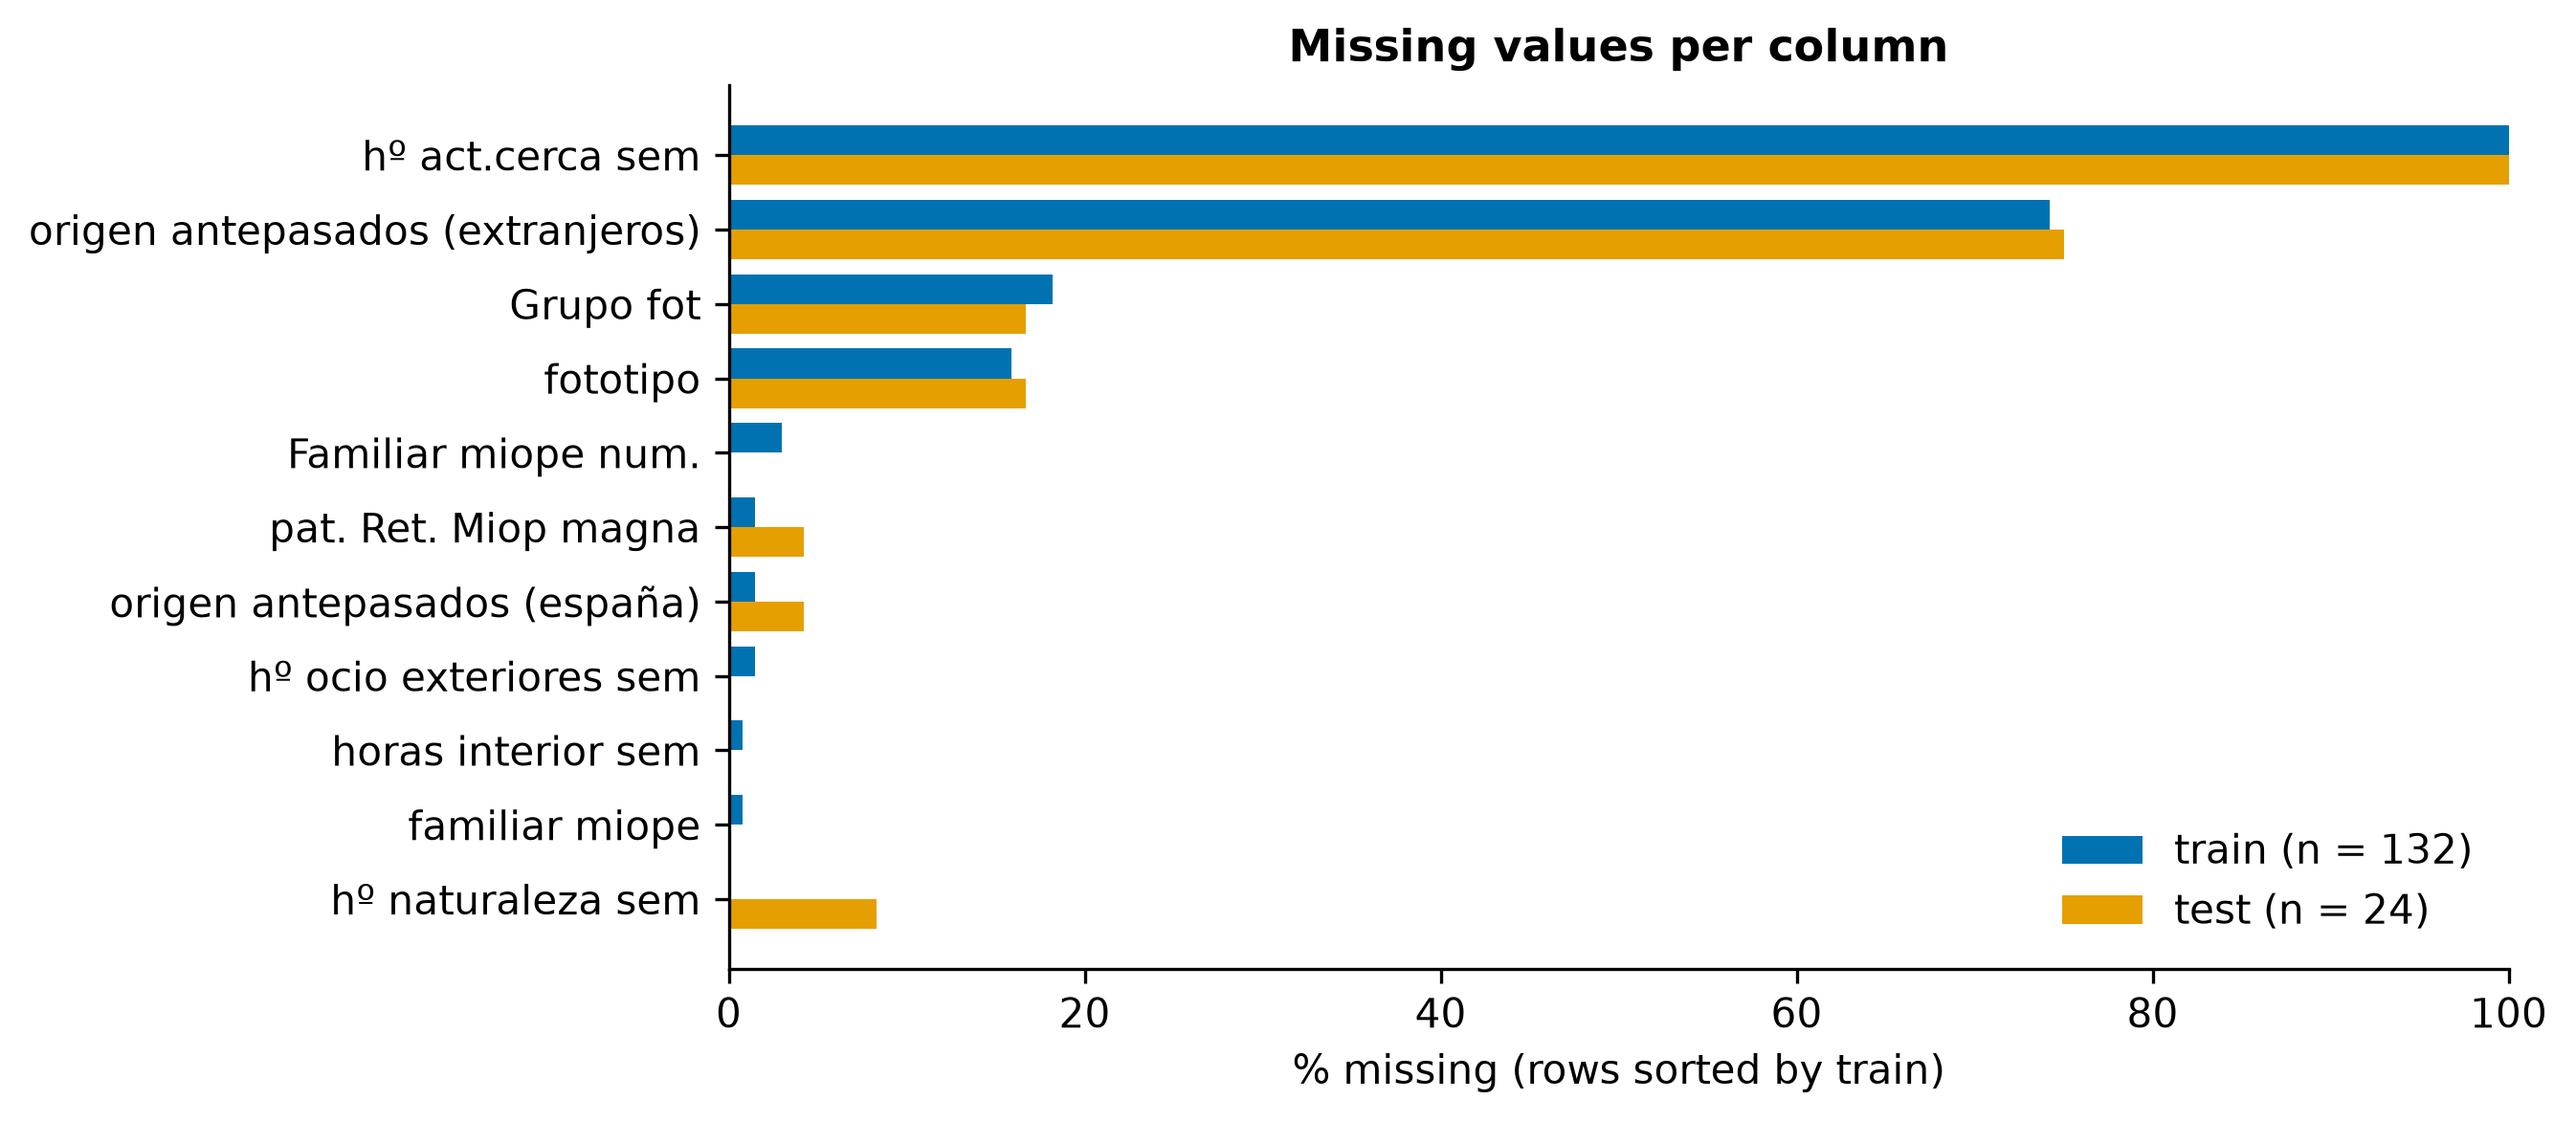
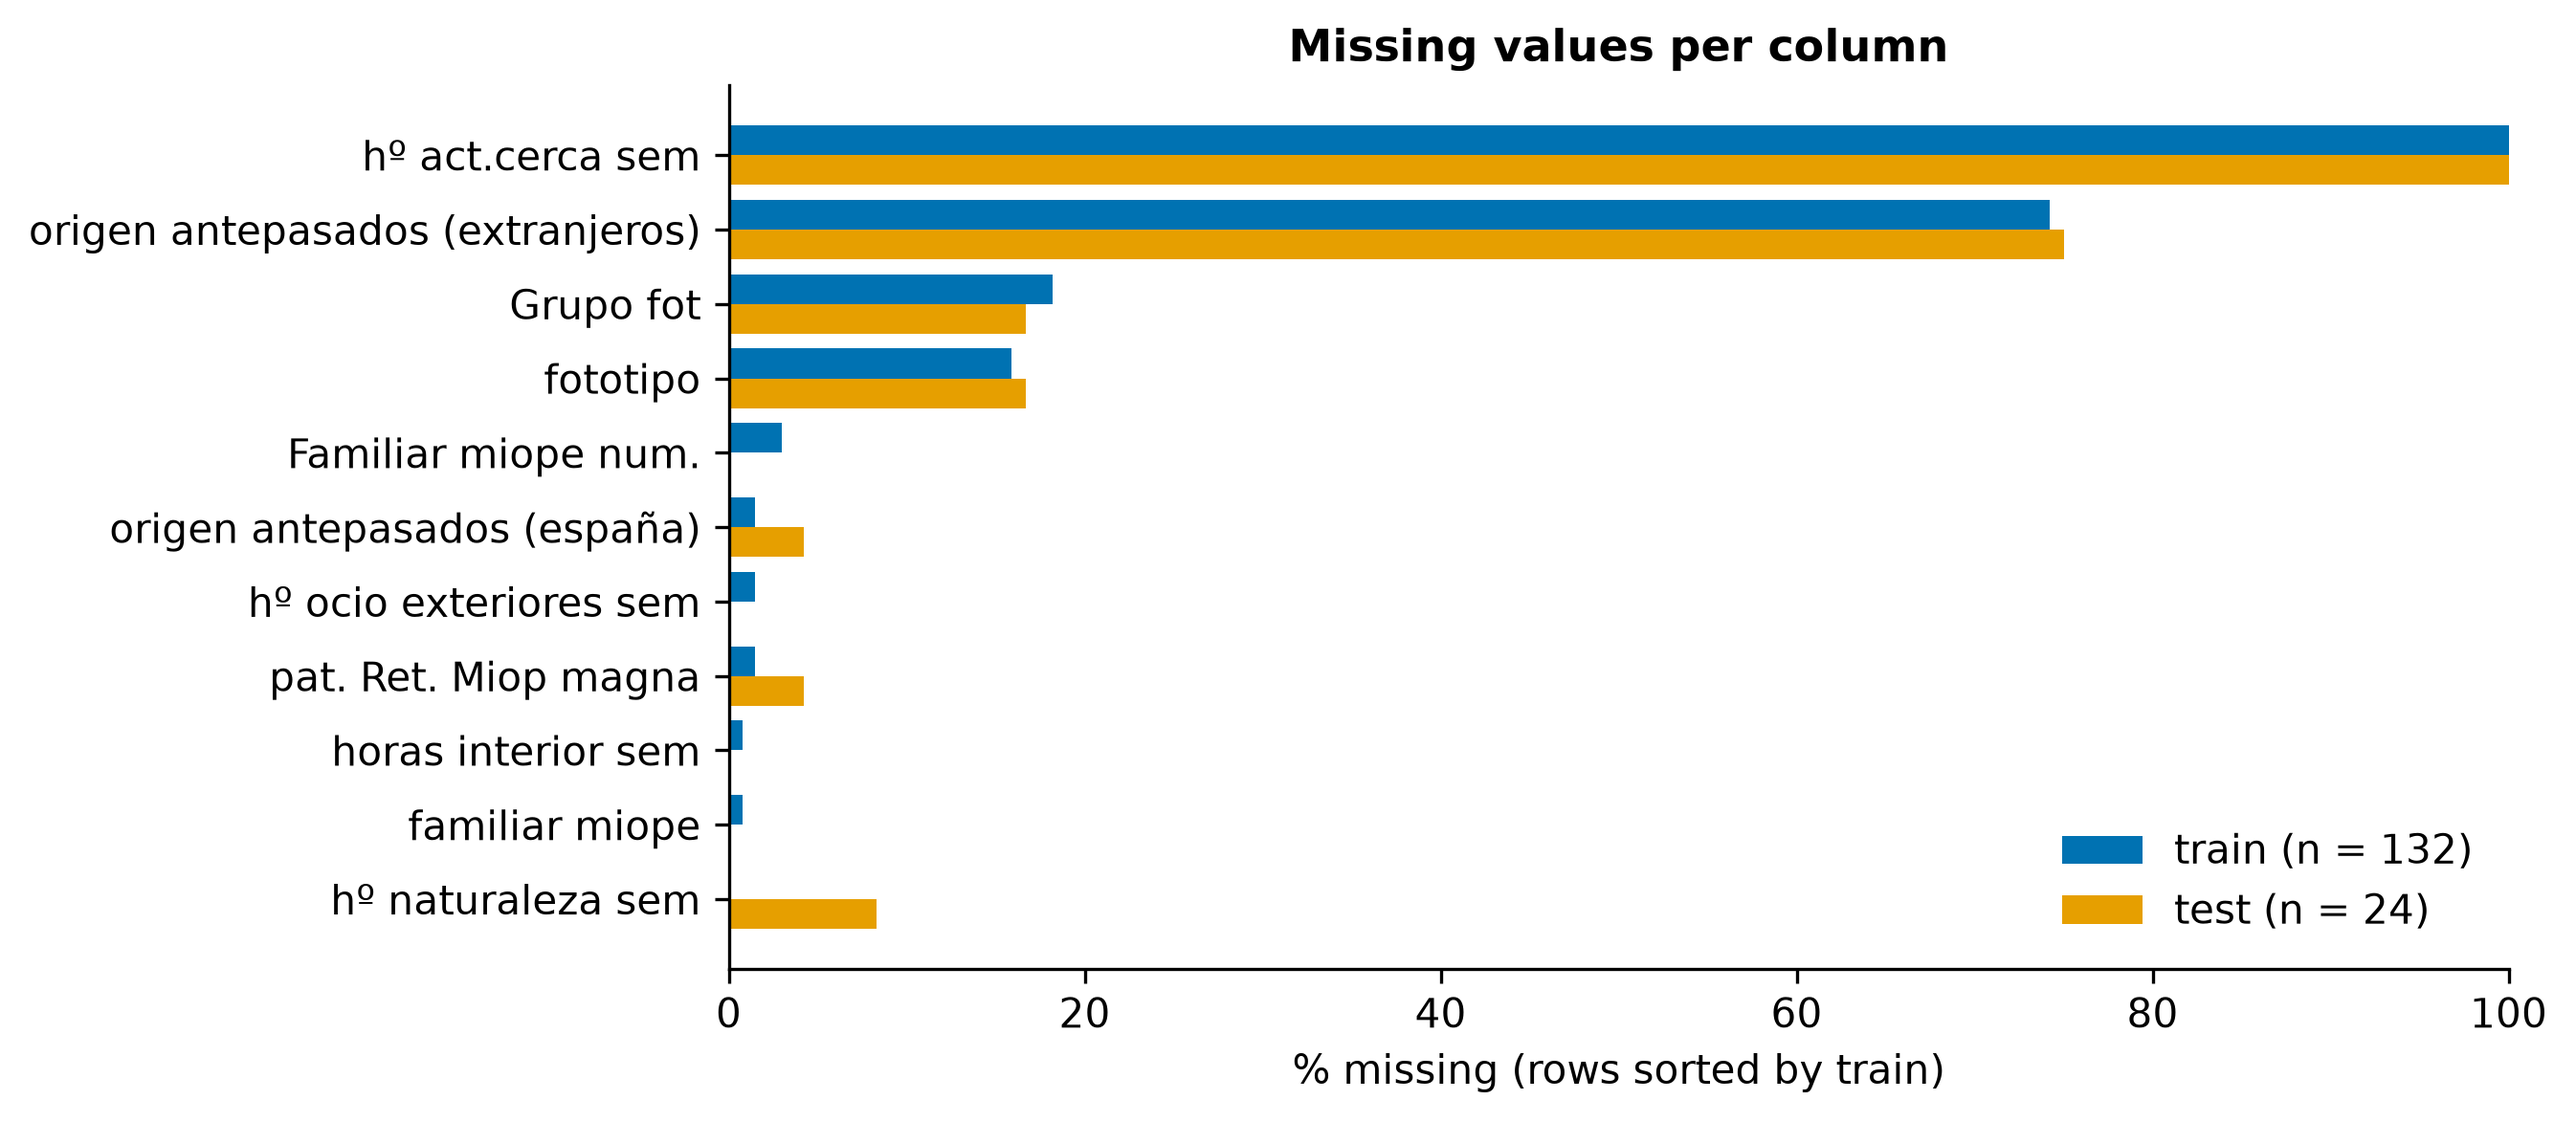
Record B12 and B13, remove AI log placeholder, sync notebook 01 figures
Confirm the comparison rules for notebook 04 (B12) and what decides when
balanced accuracy and macro-F1 disagree (B13), and state them in notebook 03.
Remove the placeholder from the AI usage log and its skill. Commit the notebook
01 figures that match the outputs saved in that notebook.

Changed region(s): [[0.0312, 0.5217, 0.312, 0.6445], [0.0312, 0.4604, 0.2808, 0.491]]

diff --git a/docs/assumptions.md b/docs/assumptions.md
@@ -30,8 +30,8 @@ Status: `OPEN` (not decided) · `ASSUMED` (working default, please confirm) · `
 | B8 | The "rules of the Data Science course" (class methods only, no stratified splits, etc.) do **not** apply here. | ASSUMED | This brief explicitly welcomes methods not seen in class. Memory notes from the other course were not applied. |
 | B9 | **`phototype` is 45 % missing** once the `E`/`L` entries (a data-entry mix-up with `Grupo fot`) are set to missing: 59 of 132 in train, 9 of 24 in test. Notebook 01 expected about 17 %. | OPEN | Kept in the features for now. Decide inside CV, without looking at the test set: compare with it, without it, and with a missing-indicator, as a model-selection variant in notebook 03/04. Do not pick by looking at its association with the labels outside CV (that leaks). Notebook 02 shows the letters are the `Grupo fot` values (43 of 43), so they carry no phototype information. A reviewer reports that the missing group is less often myopic than the observed group (to verify inside CV, not by peeking). |
 | B10 | `fecha` (exam date) is deliberately not used as a feature. | DECIDED | It has no causal link with myopia, and the 8 inconsistent `MM` labels cluster by date, so it could act as a proxy for a labelling artifact. |
-| B12 | **How "clearly better/worse" is measured.** Repeated stratified 5-fold (10 repeats), same folds for the variants compared. For each repeat, take the difference in mean balanced accuracy between two variants; a difference is clear only if its mean over repeats exceeds one standard deviation of those differences. This is a stability check across new splits of the same students, not evidence about new students. Working requirement for notebook 04: beat the better logistic baseline on balanced accuracy without being clearly worse on macro-F1, accuracy always reported, nested CV for tuned models, the winner re-checked on another CV seed, and the logistic baseline kept if nothing passes. | ASSUMED | Written by Claude on 2026-11-01, tightened after the methodology review of notebook 03. Please confirm. |
-| B13 | **What decides when balanced accuracy and macro-F1 disagree.** B1 has no rule for this, and it already happened on `MM` in notebook 03. | OPEN | Proposed: balanced accuracy first; if macro-F1 moves the other way, accuracy decides and the report says so. Must be settled before notebook 04. |
+| B12 | **How "clearly better/worse" is measured.** Repeated stratified 5-fold (10 repeats), same folds for the variants compared. For each repeat, take the difference in mean balanced accuracy between two variants; a difference is clear only if its mean over repeats exceeds one standard deviation of those differences. This is a stability check across new splits of the same students, not evidence about new students. Requirement for notebook 04: beat the better logistic baseline on balanced accuracy without being clearly worse on macro-F1, accuracy always reported, nested CV for tuned models, the winner re-checked on another CV seed, and the logistic baseline kept if nothing passes. | DECIDED | Proposed by Claude, tightened after the methodology review of notebook 03; confirmed by Ana on 2026-11-01. |
+| B13 | **What decides when balanced accuracy and macro-F1 disagree:** balanced accuracy first; if macro-F1 moves the other way, accuracy decides and the report says so. | DECIDED | Proposed by Claude, confirmed by Ana on 2026-11-01, after the disagreement on `MM` in notebook 03 and before notebook 04. |
 | B11 | The retinal columns kept are `OD-Media`, `OS-Media`, `Promedio Nasal` and the SD columns; `CUVAF-Media` and `Promedio Temporal` are dropped because they are exact combinations of those. `Familiar miope num.` is dropped (it is father + mother). | DECIDED | Verified in notebook 02 and in `tests/test_features.py`. |
 
 ## About the team and logistics
@@ -39,13 +39,14 @@ Status: `OPEN` (not decided) · `ASSUMED` (working default, please confirm) · `
 | # | Assumption | Status | Why it matters / how to settle it |
 |---|---|---|---|
 | C1 | Who the teammate is and how the work is split. | OPEN | Mandatory final slides. Never invent it: the user fills `[TO FILL]` placeholders. |
-| C2 | Who made `01_eda` and with how much AI help. | OPEN | Needed for the AI-usage slide (`docs/ai_usage.md` has `[ask the user]`). |
+| C2 | Who made `01_eda` and with how much AI help. | OPEN | Needed for the AI-usage slide (the first row of `docs/ai_usage.md` says "Not recorded"). |
 | C3 | The video is recorded by the user, 10 minutes, after the slides are final. | ASSUMED | Not something Claude can do. |
 | C4 | The zip does not include `data/` and may include `models/` only if the notebooks need saved models to run. | ASSUMED | The brief excludes train and test data. Prefer notebooks that retrain in minutes. |
 | C5 | The student data are confidential: not committed, not uploaded to any external service, no individual rows in outputs or slides. | ASSUMED | The brief does not say so; this is a conservative default for health data. |
 
 ## Change log
-- 2026-11-01: after the methodology review of notebook 03: B12 tightened, B13 added (open), and notebook 01 cell text on B2 updated.
+- 2026-11-01: B12 and B13 decided (Ana).
+- 2026-11-01: after the methodology review of notebook 03: B12 tightened, B13 added, and notebook 01 cell text on B2 updated.
 - 2026-11-01: B2 changed (Ana), replacing the entry below: labels as provided for the final models, correction only as a separate experiment. Decided after seeing the notebook 03 comparison.
 - 2026-11-01: B2 decided (Ana): correct the 8 `MM` labels by default on medical grounds; notebook 03 compares against the labels as provided, and A is used only if B is clearly worse. Rule written before running. Tomas still to be told. Result in notebook 03: correction stands (balanced accuracy clearly higher; accuracy and macro-F1 clearly lower, against the original labels). B12 added. B9 stays open: no clear difference with the logistic baseline.
 - 2026-10-29: B1 decided (balanced accuracy + macro-F1, accuracy reported). B9 stays inside CV. B2 kept with its three rules. Notebook 01 revised (privacy, phototype rate, figures, multiple-test correction).

diff --git a/docs/ai_usage.md b/docs/ai_usage.md
@@ -1,15 +1,16 @@
 # Generative-AI usage log
 
-Required for the final slides ("how you used generative AI models throughout the work"). Kept up to date with the `ai-usage-log` skill. Entries are factual; `[ask the user]` marks what only the human can fill in.
+Required for the final slides ("how you used generative AI models throughout the work"). Kept up to date with the `ai-usage-log` skill. Entries are factual.
 
 | Date | Area | What the AI did | What the human did / decided |
 |---|---|---|---|
-| before 2026-10-29 | EDA (`01_eda`), project scaffolding | [ask the user] | [ask the user] |
+| before 2026-10-29 | EDA (`01_eda`), project scaffolding | Not recorded | Ana committed the EDA notebook and figures; Tomas committed the project template (git history) |
 | 2026-10-29 | Tooling/setup | Claude Code read the brief and the repo and wrote `CLAUDE.md`, six subagents (notebook runner, methodology reviewer, model experimenter, chart reviewer, slides writer, deliverables checker) and two project skills | The user asked for the environment and supplied the brief |
 | 2026-10-29 | Tooling/setup | Claude Code searched for existing skills (marketplace and web), vetted and installed the `scikit-learn` skill with two edits, and assigned skills to the agents | The user asked for the skill search and assignment |
 | 2026-10-29 | Tooling/setup | Claude Code wrote `docs/assignment.md` (the brief as a checklist) and `docs/assumptions.md` (open decisions), and linked them to `CLAUDE.md` and the agents | The user asked for both documents |
-| 2026-10-29 | Features, tests | Claude Code wrote `src/miopia/features.py`, `src/miopia/plotting.py` and `tests/test_features.py` from the notebook 01 decisions, and corrected the feature code after a review found exact dependencies among the retinal columns | The user asked for it; [ask the user] what the user reviewed |
-| 2026-10-29 | Report (notebook 02) | Claude Code wrote and executed `02_cleaning_features.ipynb` and the notebook template; two AI review agents (methodology and charts) checked it and their findings were applied | The user asked for it; [ask the user] what the user checked and edited |
+| 2026-10-29 | Features, tests | Claude Code wrote `src/miopia/features.py`, `src/miopia/plotting.py` and `tests/test_features.py` from the notebook 01 decisions, and corrected the feature code after a review found exact dependencies among the retinal columns | The user asked for it |
+| 2026-10-29 | Report (notebook 02) | Claude Code wrote and executed `02_cleaning_features.ipynb` and the notebook template; two AI review agents (methodology and charts) checked it and their findings were applied | The user asked for it |
 | 2026-10-29 | Review of notebook 01 | Two AI review agents (methodology and charts) reviewed `01_eda`; their findings were then applied by Claude Code (privacy of printed rows, figures, multiple-test correction, wording of claims) and the notebook was re-executed | The user asked for the review |
 | 2026-11-01 | Decision B2 (inconsistent `MM` labels) | Claude Code explained the options, proposed the comparison design and two possible adoption rules (it recommended keeping the original labels by default), and recorded the decision in `docs/assumptions.md` and `CLAUDE.md` | Ana first chose to correct the labels by default, then, after seeing the notebook 03 comparison, decided to keep the labels as provided and report the correction only as a separate experiment |
-| 2026-11-01 | Validation, report (notebook 03) | Claude Code wrote `src/miopia/validation.py`, proposed the bar for a clear difference (B12), wrote and executed `03_baselines_validation.ipynb`; two AI review agents (methodology and charts) checked it and their findings were applied | Ana asked for it; [ask the user] what the user checked and edited |
+| 2026-11-01 | Validation, report (notebook 03) | Claude Code wrote `src/miopia/validation.py`, proposed the bar for a clear difference (B12), wrote and executed `03_baselines_validation.ipynb`; two AI review agents (methodology and charts) checked it and their findings were applied | Ana asked for it |
+| 2026-11-01 | Decisions B12 and B13 (model comparison rules) | Claude Code proposed both rules and recorded them | Ana confirmed both |

diff --git a/CLAUDE.md b/CLAUDE.md
@@ -54,11 +54,11 @@ Follow [Friends Don't Let Friends](https://github.com/cxli233/FriendsDontLetFrie
 - `phototype` is 45 % missing (the letters in `fototipo` are `Grupo fot` values): kept for now, decision B9 happens inside CV.
 - `fecha` and `pat. Ret. Miop magna` are not used (B10, and a consequence of the target).
 
-## Decisions so far (03, executed, reviews applied; B12 and B13 to be confirmed)
+## Decisions so far (03, executed, reviews applied)
 
 - Validation code is in `miopia.validation`: repeated stratified 5-fold x 10; `evaluate` fits on one label set and scores against another.
 - `MM` is trained on its column as provided (B2). In the experiment, corrected labels raised balanced accuracy and lowered accuracy and macro-F1.
-- Logistic on axial length alone matches all 33 features on balanced accuracy: notebook 04 must beat the better logistic baseline (B12).
+- Logistic on axial length alone matches all 33 features on balanced accuracy: notebook 04 must beat the better logistic baseline (B12). If balanced accuracy and macro-F1 disagree, accuracy decides and the report says so (B13).
 
 ## Plan
 

diff --git a/.claude/skills/ai-usage-log/SKILL.md b/.claude/skills/ai-usage-log/SKILL.md
@@ -15,12 +15,11 @@ Append one row to the table in `docs/ai_usage.md`:
 
 - **Area**: EDA, features, validation, models, charts, report text, slides, tooling/setup, review.
 - **What the AI did**: concrete and specific (e.g. "wrote the `RepeatedStratifiedKFold` comparison code", "proposed using permutation importance", "reviewed notebook 03 for leakage"). Mention subagent reviews as AI work.
-- **What the human did**: decisions, checks, edits, parts written by hand. If the user did not say, write `[ask the user]` rather than guessing.
+- **What the human did**: decisions, checks, edits, parts written by hand. If the user did not say, record only what is known and do not guess.
 - One line each, plain words, no number-packed detail.
 
 ## Rules
 - Never delete or soften past entries. Never invent work Claude did not do, and never credit the AI for something the user did.
-- Entries about the earlier notebook `01_eda` are unknown unless the user says how it was made: leave them as `[ask the user]`.
 - Do not log any student data.
 
 ## For the slide
